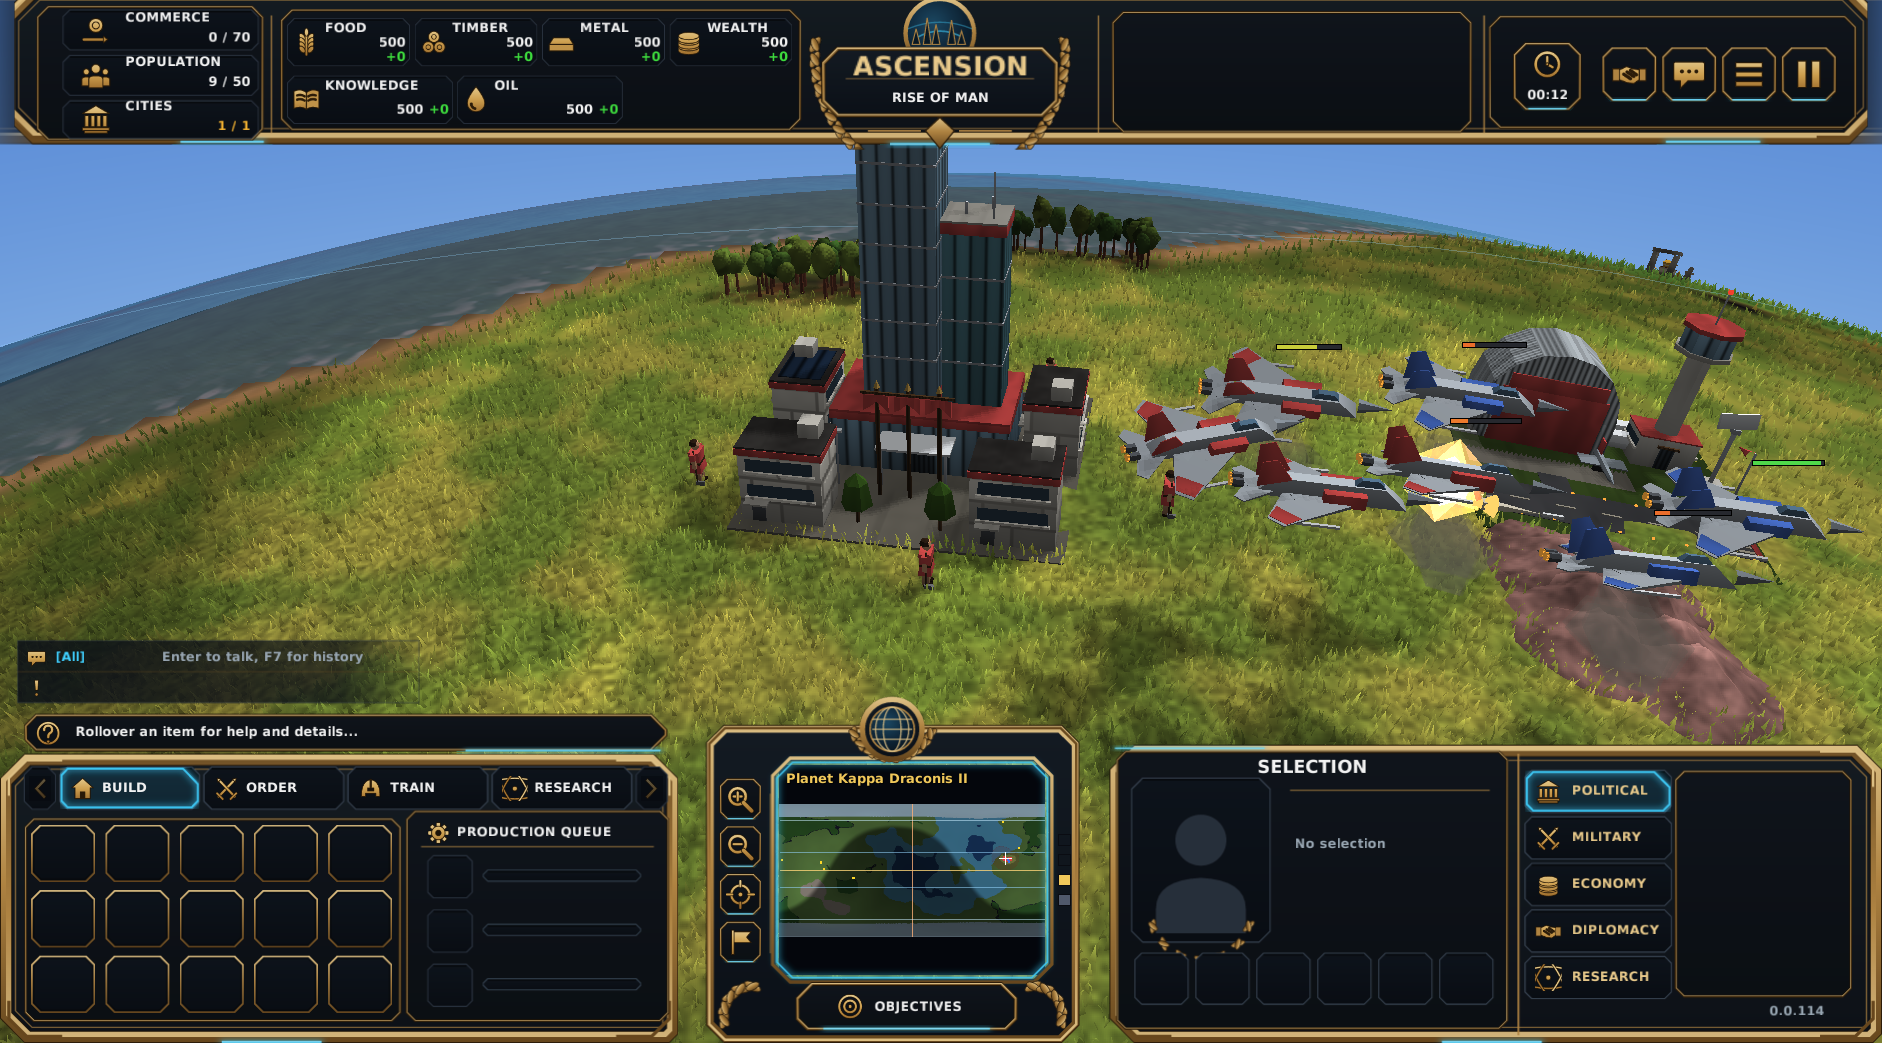
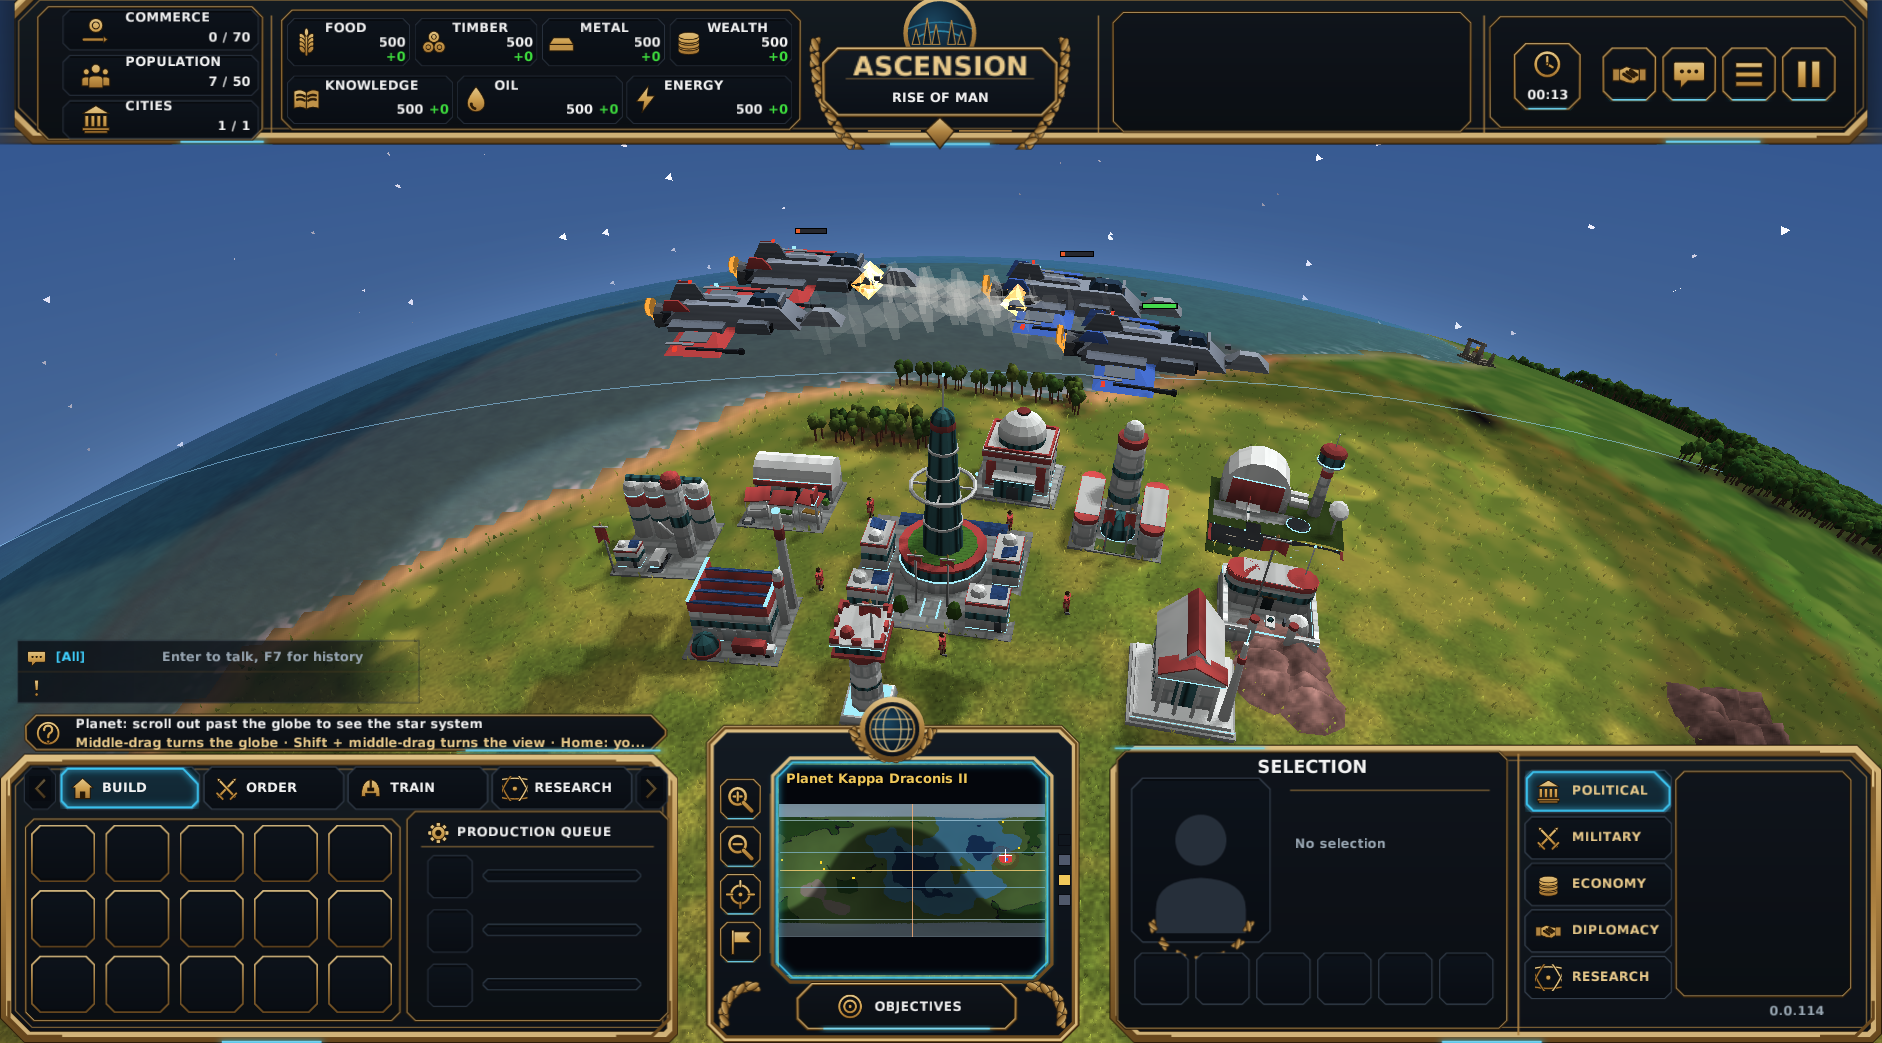
Task 122: retake the dogfight screenshot with the fight in the air
Orbital fighters of both players, in two formations, fight at altitude above a built-up
city (nine buildings), seen from a lower angle. Store screenshot 4 and its hashes follow;
the review page's caption for the picture is updated.

diff --git a/app/docs/art/review-page/build.py b/app/docs/art/review-page/build.py
@@ -66,7 +66,7 @@ OVERVIEW6 = [
     ("unit.light_tank_industrial_attack", "A tank firing: the turret has swung back onto the target, the gun recoils"),
     ("unit.machine_gunner_industrial_attack", "A machine gun firing a burst"),
     ("unit.biplane_industrial_move", "A biplane under way: aloft, banking, its propeller spinning"),
-    ("orbital-dogfight", "Starfaring: orbital fighters fighting in orbit above a city"),
+    ("orbital-dogfight", "Starfaring: two formations of orbital fighters fight high above a built-up city"),
     ("orbital-battery", "Starfaring: ground batteries firing at a ship in orbit"),
     ("unit.musketeer_gunpowder_attack_before", "Still open from round 5 — firing a long gun, before: one hand, from the hip"),
     ("unit.musketeer_gunpowder_attack", "Round 5 — after: from the shoulder, both hands (also the arquebusier and crossbowman)"),
